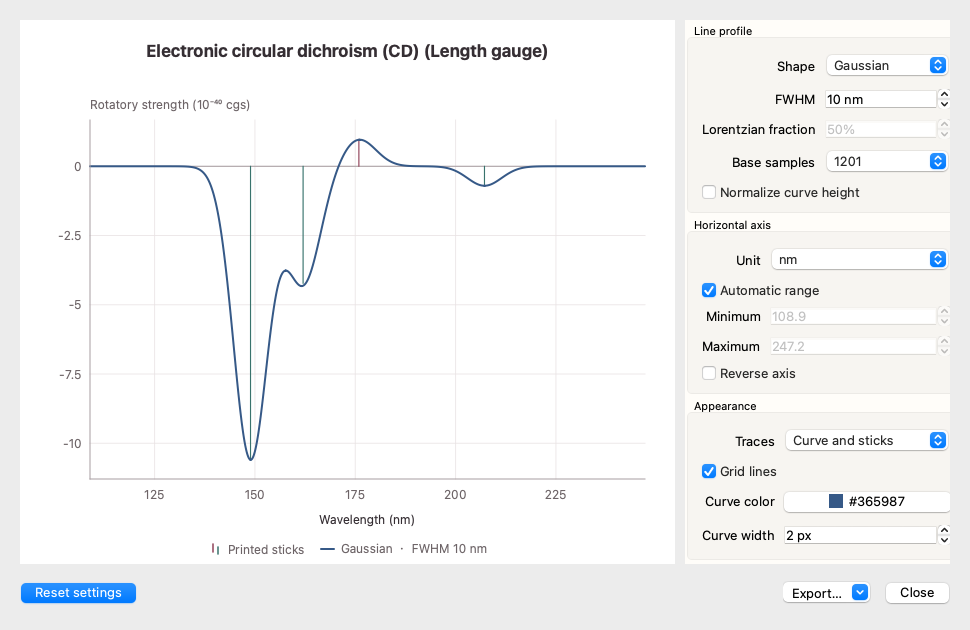
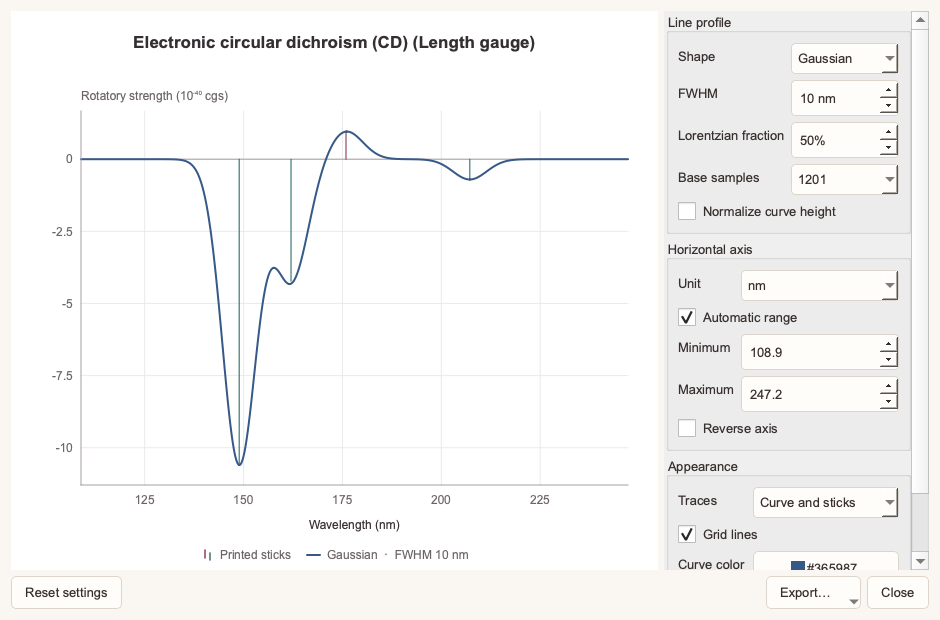
Illustrate the README with reproducible desktop views and refresh them on release

diff --git a/tools/gallery_molecules.py b/tools/gallery_molecules.py
@@ -1,0 +1,69 @@
+"""Capture the water dimer editor and the hydroxyl radical's population controls."""
+
+import subprocess
+import sys
+import time
+from pathlib import Path
+
+from orcaview.application.session import Session
+from orcaview.cli_io import load_session
+from orcaview.cli_results import pick_dataset
+from orcaview.core.models import Atom, Bond, Molecule
+from orcaview.gui.design_panel import DesignPanel
+from orcaview.gui.population_dialog import PopulationDialog
+from orcaview.gui.population_map import PALETTES, PopulationStyle, available_populations
+
+
+def _water_dimer(app, output):
+    atoms = (Atom("O", 0, 0, 0), Atom("H", .96, 0, 0), Atom("H", -.25, .92, 0),
+             Atom("O", 3.25, .40, .20), Atom("H", 3.90, 1.10, .18), Atom("H", 3.75, -.39, .40))
+    bonds = (Bond(0, 1), Bond(0, 2), Bond(3, 4), Bond(3, 5), Bond(1, 3, 1, "hydrogen_bond"))
+    document = Session(Molecule("Water dimer", atoms, bonds, bonds_explicit=True)).document
+    panel = DesignPanel()
+    try:
+        panel.set_document(document)
+        panel.resize(1020, 460)
+        panel.show()
+        app.processEvents()
+        before = document.head.ref
+        panel._start_structure_job("HB", distance=1.90, angle=170.)
+        deadline = time.monotonic() + 90
+        while panel._structure_job is not None and time.monotonic() < deadline:
+            app.processEvents()
+            time.sleep(.02)
+        if document.head.ref == before or panel._structure_job is not None:
+            raise RuntimeError(f"Water dimer optimization failed: {panel.status.text()}")
+        panel.canvas.fit()
+        panel.viewport.fit()
+        panel.viewport.zoom = 1.85
+        panel.viewport.rotate_view("z", 15)
+        app.processEvents()
+        if not panel.grab().save(str(output)):
+            raise OSError(f"Could not save {output}")
+    finally:
+        panel.close()
+
+
+def capture_molecules(app, output: Path):
+    _water_dimer(app, output / "hydrogen-bond-design.png")
+    log = Path(__file__).resolve().parents[1] / "examples/populations/hydroxyl.out"
+    # Use the same structure export and camera settings as the published CLI example.
+    subprocess.run([sys.executable, "-m", "orcaview", "render", str(log), str(output / "hydroxyl-spin.png"),
+                    "--population", "mulliken-spin", "--population-scale", "bwr", "--population-symmetric",
+                    "--labels", "--rotate", "y:76", "--rotate", "z:12", "--zoom", "1.65",
+                    "--width", "600", "--height", "355"], check=True)
+
+    datasets = load_session(log).document.records()[1]
+    spin = pick_dataset(datasets, "mulliken-spin")
+    limit = max(abs(value) for value in spin.values if value is not None)
+    style = PopulationStyle(colors=PALETTES["BWR"], color_atoms=True, range_mode="manual",
+                            lower=-limit, upper=limit, midpoint=0.)
+    dialog = PopulationDialog(available_populations(datasets, spin.geometry), spin.dataset_id, style)
+    try:
+        dialog.show()
+        app.processEvents()
+        path = output / "population-controls.png"
+        if not dialog.grab().save(str(path)):
+            raise OSError(f"Could not save {path}")
+    finally:
+        dialog.close()

diff --git a/tools/render_readme_gallery.py b/tools/render_readme_gallery.py
@@ -1,0 +1,64 @@
+"""Render the README figures from the checked-out OrcaView application."""
+
+import argparse
+import os
+from pathlib import Path
+import re
+import sys
+from tempfile import TemporaryDirectory
+
+
+ROOT = Path(__file__).resolve().parents[1]
+ASSETS = ROOT / "artifacts" / "public"
+
+
+def render(output):
+    # Open Babel and the CLI renderer may start fresh Python/Qt processes.
+    os.environ.update(QT_QPA_PLATFORM="offscreen", QT_SCALE_FACTOR="1", QT_FONT_DPI="96",
+                      QT_STYLE_OVERRIDE="Fusion", QT_HASH_SEED="0", ORCAVIEW_HEADLESS="1",
+                      PYTHONPATH=os.pathsep.join(filter(None, [str(ROOT / "src"), os.environ.get("PYTHONPATH")])))
+    sys.path.insert(0, str(ROOT / "src"))
+    from PySide6.QtCore import QLocale
+    from PySide6.QtGui import QImage
+    from PySide6.QtWidgets import QApplication
+    from orcaview.gui import typography
+    from orcaview.gui.main_window import STYLE
+    from gallery_calculation import capture_calculation
+    from gallery_molecules import capture_molecules
+    from gallery_spectra import capture_spectra
+
+    expected = set(re.findall(r"!\[[^\]]*\]\(artifacts/public/([\w.-]+\.png)\)",
+                              (ROOT / "README.md").read_text(encoding="utf-8")))
+    output.mkdir(parents=True, exist_ok=True)
+    with TemporaryDirectory(dir=output) as temp:
+        work = Path(temp)
+        os.environ["ORCAVIEW_CONFIG_DIR"] = str(work / "preferences")
+        QLocale.setDefault(QLocale("en_US"))
+        app = QApplication(["OrcaView"])
+        app.setApplicationName("OrcaView")
+        app.setStyle("Fusion")
+        app.setCursorFlashTime(0)
+        app.setFont(typography.interface_font("en"))
+        app.setStyleSheet(typography.stylesheet(STYLE))
+        for capture in (capture_molecules, capture_calculation, capture_spectra):
+            capture(app, work)
+
+        generated = {p.name for p in work.glob("*.png")}
+        if generated != expected:
+            raise ValueError(f"README and capture scripts disagree: {sorted(generated ^ expected)}")
+        for name in sorted(generated):
+            if QImage(str(work / name)).isNull():
+                raise ValueError(f"Could not decode {name}")
+        for name in sorted(generated):
+            destination = output / name
+            image = work / name
+            if destination.exists() and destination.read_bytes() == image.read_bytes():
+                continue
+            image.replace(destination)
+            print(f"Updated {name}")
+
+
+if __name__ == "__main__":
+    parser = argparse.ArgumentParser(description=__doc__)
+    parser.add_argument("--output", type=Path, default=ASSETS)
+    render(parser.parse_args().output.resolve())

diff --git a/tools/gallery_calculation.py b/tools/gallery_calculation.py
@@ -1,0 +1,49 @@
+"""Capture the input workspace and the energy history of the archived water calculation."""
+
+from pathlib import Path
+
+from PySide6.QtCore import Qt
+
+from orcaview.gui.foundation_panel import FoundationPanel
+from orcaview.gui.main_window import MainWindow
+from orcaview.gui.result_import import read_native_session
+
+
+EXAMPLE = (Path(__file__).resolve().parents[1] / "artifacts/public/validation"
+           / "ORCA-6.1.1-macOS-arm64/optfreq")
+
+
+def capture_calculation(app, output):
+    window = MainWindow()
+    try:
+        window.session.open_xyz(Path(__file__).resolve().parents[1] / "examples/water.xyz")
+        window.session.apply_input_preview((EXAMPLE / "job.inp").read_text())
+        window._load_controls()
+        window.tree_dock.hide()
+        window.show()
+        app.processEvents()
+        window.resize(1120, 890)
+        window.resizeDocks([window.inspector_dock], [413], Qt.Orientation.Horizontal)
+        window.resizeDocks([window.bottom_dock], [250], Qt.Orientation.Vertical)
+        window.viewport.rotate_view('x', -65)
+        window.viewport.zoom = 1.65
+        app.processEvents()
+        region = window.workspace_tabs.geometry().united(window.inspector_dock.geometry())
+        region = region.united(window.bottom_dock.geometry())
+        if not window.grab(region).save(str(output / "input-preview.png")):
+            raise OSError("Could not save the input workspace image")
+    finally:
+        window.close()
+
+    session = read_native_session(EXAMPLE / "job.out")
+    panel = FoundationPanel()
+    try:
+        panel.set_document(session.document)
+        panel.set_log_report(session.log_report, standalone=True)
+        panel.resize(1040, 594)
+        panel.show()
+        app.processEvents()
+        if not panel.grab().save(str(output / "calculation-results.png")):
+            raise OSError("Could not save the calculation results image")
+    finally:
+        panel.close()

diff --git a/tools/gallery_spectra.py b/tools/gallery_spectra.py
@@ -1,0 +1,34 @@
+"""Capture the spectrum settings windows using published ORCA example outputs."""
+
+from pathlib import Path
+
+from orcaview.gui.spectrum_preview import SpectrumPreview
+from orcaview.orca.log_spectra import parse_log_spectra
+
+
+FIXTURES = Path(__file__).resolve().parents[1] / "artifacts/public/validation/results-0.1.0a12"
+
+
+def capture_spectra(app, output: Path):
+    examples = (
+        ("tdcd/peroxide.out", "Electronic circular dichroism (CD) (Length gauge)", "spectrum-plot.png"),
+        ("nmr/water-shield.out", "NMR chemical shielding", "nmr-spectrum.png"),
+    )
+    for log, title, filename in examples:
+        tables = parse_log_spectra((FIXTURES / log).read_text(encoding="utf-8"))
+        table = next(table for table in tables if table.title == title)
+        preview = SpectrumPreview()
+        try:
+            preview.set_spectrum(table)
+            preview.open_plot()
+            dialog = preview._dialog
+            dialog.resize(940, 700 if table.kind == "nmr" else 620)
+            dialog.figure.setFocus()
+            app.processEvents()
+            if not dialog.export_button.isEnabled() or not dialog.figure.profile.curve:
+                raise RuntimeError(f"No curve rendered for {log}")
+            if not dialog.grab().save(str(output / filename)):
+                raise OSError(f"Could not save {output / filename}")
+        finally:
+            preview.set_spectrum(None)
+            preview.close()

diff --git a/README.md b/README.md
@@ -18,6 +18,24 @@ All three packages include Python, Qt, Open Babel and 21 example files. Drawing 
 
 English is built in. The language pack adds German, Japanese, Simplified Chinese and Traditional Chinese. The color pack provides Contrast, Pastel and Grayscale element palettes. [Language pack](https://github.com/lightzfpwings/OrcaView/releases/download/v0.1.0a63/OrcaView-Extensions-01-Language-0.1.0a63.zip) · [Color pack](https://github.com/lightzfpwings/OrcaView/releases/download/v0.1.0a63/OrcaView-Extensions-02-Color-0.1.0a63.zip) · [Installation and authoring](docs/extensions/README.md)
 
+## Geometry and ORCA input
+
+The **Design** workspace pairs a 2D sketch with a 3D geometry. Add rings or hydrogens, edit bonds and coordinates, and optimize a starting geometry with Open Babel's MMFF94 or UFF force field. Import structures from XYZ, MOL/SDF, PDB and other formats. [Design commands](docs/CLI_DESIGN.md) · [Open Babel force fields](https://openbabel.org/docs/Forcefields/Overview.html)
+
+To position a molecule, select one of its atoms. Hold Alt (Option on macOS) and drag with the left button to rotate it or the right button to move it. Use Ctrl+C and Ctrl+V (⌘C and ⌘V on macOS) to place a separate copy.
+
+Choose **Hydrogen bond** from the single-bond menu and click an explicit hydrogen and its acceptor. **Optimize H-bonds…** applies H···A distance and D–H···A angle restraints to the marked contacts in a neutral singlet. Projects with hydrogen-bond annotations in their history require version 0.1.0a63 or later.
+
+In **Input**, choose a method, basis set, charge and multiplicity, or edit the ORCA input preview and press Tab to apply it. For example, `! MiniPrint NoAutoStart` requests minimal output and disables automatic reuse of a same-name orbital file for a single-point calculation. The corresponding panel controls are `%output → PrintLevel` and `%scf → AutoStart`. [Supported methods and input blocks](docs/ORCA_METHODS.md) · [Native ORCA input examples](examples/native_methods/)
+
+![Water input workspace with calculation settings, molecular geometry and the editable ORCA input.](artifacts/public/input-preview.png)
+
+## Calculation results
+
+The water optimization example shows how the energy changes between geometry steps. Open its ORCA output in **Result** and select **Final single-point energy**. The table lists the ORCA log line for each step, including the final energy of −76.321268537024 Eh at line 2941. [Water optimization input and output](artifacts/public/validation/ORCA-6.1.1-macOS-arm64/optfreq/)
+
+![Water optimization results with step energies, source line numbers and an infrared spectrum preview.](artifacts/public/calculation-results.png)
+
 ## Atomic populations in the hydroxyl radical
 
 Open `Examples/hydroxyl-populations.out`. In **Result**, click **Atomic populations…** and select **Mulliken spin population**. For this unrestricted PBE/def2-SVP doublet, ORCA reports +1.024339 for oxygen and −0.024339 for hydrogen. Their sum is 1.000000. Labels display the signed values and the legend shows the range used to color the atoms. [ORCA input and output](examples/populations/hydroxyl.out)
@@ -26,7 +44,9 @@ Open `Examples/hydroxyl-populations.out`. In **Result**, click **Atomic populati
 
 Switch between Mulliken, Löwdin, Hirshfeld and MBIS partitions when the output contains them. CHELPG supplies fitted charges. Choose red–white–blue, blue–white–red, rainbow or black–white, edit individual colors, or save a preset. Fixed limits and a midpoint let you compare the same quantity across structures. [Population definitions and ORCA log coverage](docs/ORCA_LOG_COVERAGE.md)
 
-From a source checkout with the GUI dependencies installed, these commands export the numerical table and reproduce the figure above.
+![Atomic population controls for hydroxyl, with Mulliken spin selected and a blue–white–red scale centered at zero.](artifacts/public/population-controls.png)
+
+From a source checkout with the GUI dependencies installed, these commands export the numerical table and reproduce the spin population map.
 
 ```sh
 orcaview results examples/populations/hydroxyl.out --dataset mulliken-spin --format csv -o spin.csv
@@ -39,19 +59,11 @@ orcaview render examples/populations/hydroxyl.out spin.png --population mulliken
 
 Open `Examples/water-nmr.out` and choose **NMR chemical shielding**. Both hydrogens in this calculation have an isotropic shielding of 31.130 ppm and contribute to one peak with weight two. To plot chemical shifts, enter a reference shielding for the same element and method. OrcaView plots δ = σref − σ in ppm. The one-dimensional spectrum uses uncoupled sites. **NMR spin–spin coupling** plots signed J values by atom pair in Hz. [Water NMR output](artifacts/public/validation/results-0.1.0a12/nmr/water-shield.out)
 
+![Water proton NMR shielding spectrum with one peak at 31.130 ppm, the selected nucleus and the reference shielding control.](artifacts/public/nmr-spectrum.png)
+
 For IR and Raman, try `Examples/water-raman.out`. For UV/Vis absorption and signed circular dichroism, try `Examples/peroxide-uv-cd.out`. **Plot settings…** controls the axis units, line shape, full width at half maximum and stick overlay. Export the displayed figure as PNG, JPEG, BMP or vector PDF, or save the sticks and sampled curve as CSV. [CLI commands and export formats](docs/CLI_RESULTS.md)
 
 ![Electronic circular dichroism spectrum with signed sticks, Gaussian broadening and line profile controls.](artifacts/public/spectrum-plot.png)
-
-## Geometry and ORCA input
-
-The **Design** workspace pairs a 2D sketch with a 3D geometry. Add rings or hydrogens, edit bonds and coordinates, and optimize a starting geometry with Open Babel's MMFF94 or UFF force field. Import structures from XYZ, MOL/SDF, PDB and other formats. [Design commands](docs/CLI_DESIGN.md) · [Open Babel force fields](https://openbabel.org/docs/Forcefields/Overview.html)
-
-To position a molecule, select one of its atoms. Hold Alt (Option on macOS) and drag with the left button to rotate it or the right button to move it. Use Ctrl+C and Ctrl+V (⌘C and ⌘V on macOS) to place a separate copy.
-
-Choose **Hydrogen bond** from the single-bond menu and click an explicit hydrogen and its acceptor. **Optimize H-bonds…** applies H···A distance and D–H···A angle restraints to the marked contacts in a neutral singlet. Projects with hydrogen-bond annotations in their history require version 0.1.0a63 or later.
-
-In **Input**, choose a method, basis set, charge and multiplicity, or edit the ORCA input preview and press Tab to apply it. For example, `! MiniPrint NoAutoStart` requests minimal output and disables automatic reuse of a same-name orbital file for a single-point calculation. The corresponding panel controls are `%output → PrintLevel` and `%scf → AutoStart`. [Supported methods and input blocks](docs/ORCA_METHODS.md) · [Native ORCA input examples](examples/native_methods/)
 
 ## Source and validation
 

diff --git a/packaging/desktop/README.md b/packaging/desktop/README.md
@@ -12,3 +12,9 @@ Use `linux` or `windows` for a single target. Pass `--cache <directory>` to reus
 - **Linux x86-64**. Extract the tarball and launch `./OrcaView` on a graphical desktop. Qt requires glibc 2.28 or newer and desktop libraries including `libxcb-cursor0` and `libxkbcommon-x11-0` on Debian/Ubuntu. Run `./OrcaView --version` to check the launcher. The runtime contains the required third-party notices.
 
 The runtime includes a link to the shared [third-party source and notice bundle](https://github.com/lightzfpwings/OrcaView/releases/download/v0.1.0a43/OrcaView-0.1.0a43-third-party-sources.zip). The app can process structures, prepare input and import results on both platforms. The local ORCA job runner uses POSIX process control.
+
+## README figures
+
+The [gallery workflow](../../.github/workflows/readme-gallery.yml) renders the repository homepage from the current desktop code and example outputs on pushes to `main` and when a release is published. It commits changed PNGs. Before tagging a release, wait for the workflow and include its latest figure commit so that the tag's README also shows that version of the interface.
+
+For a local preview, install the GUI dependencies and run `python tools/render_readme_gallery.py --output /tmp/orcaview-gallery` from the checkout. The figure recipes live in `tools/gallery_*.py`.
